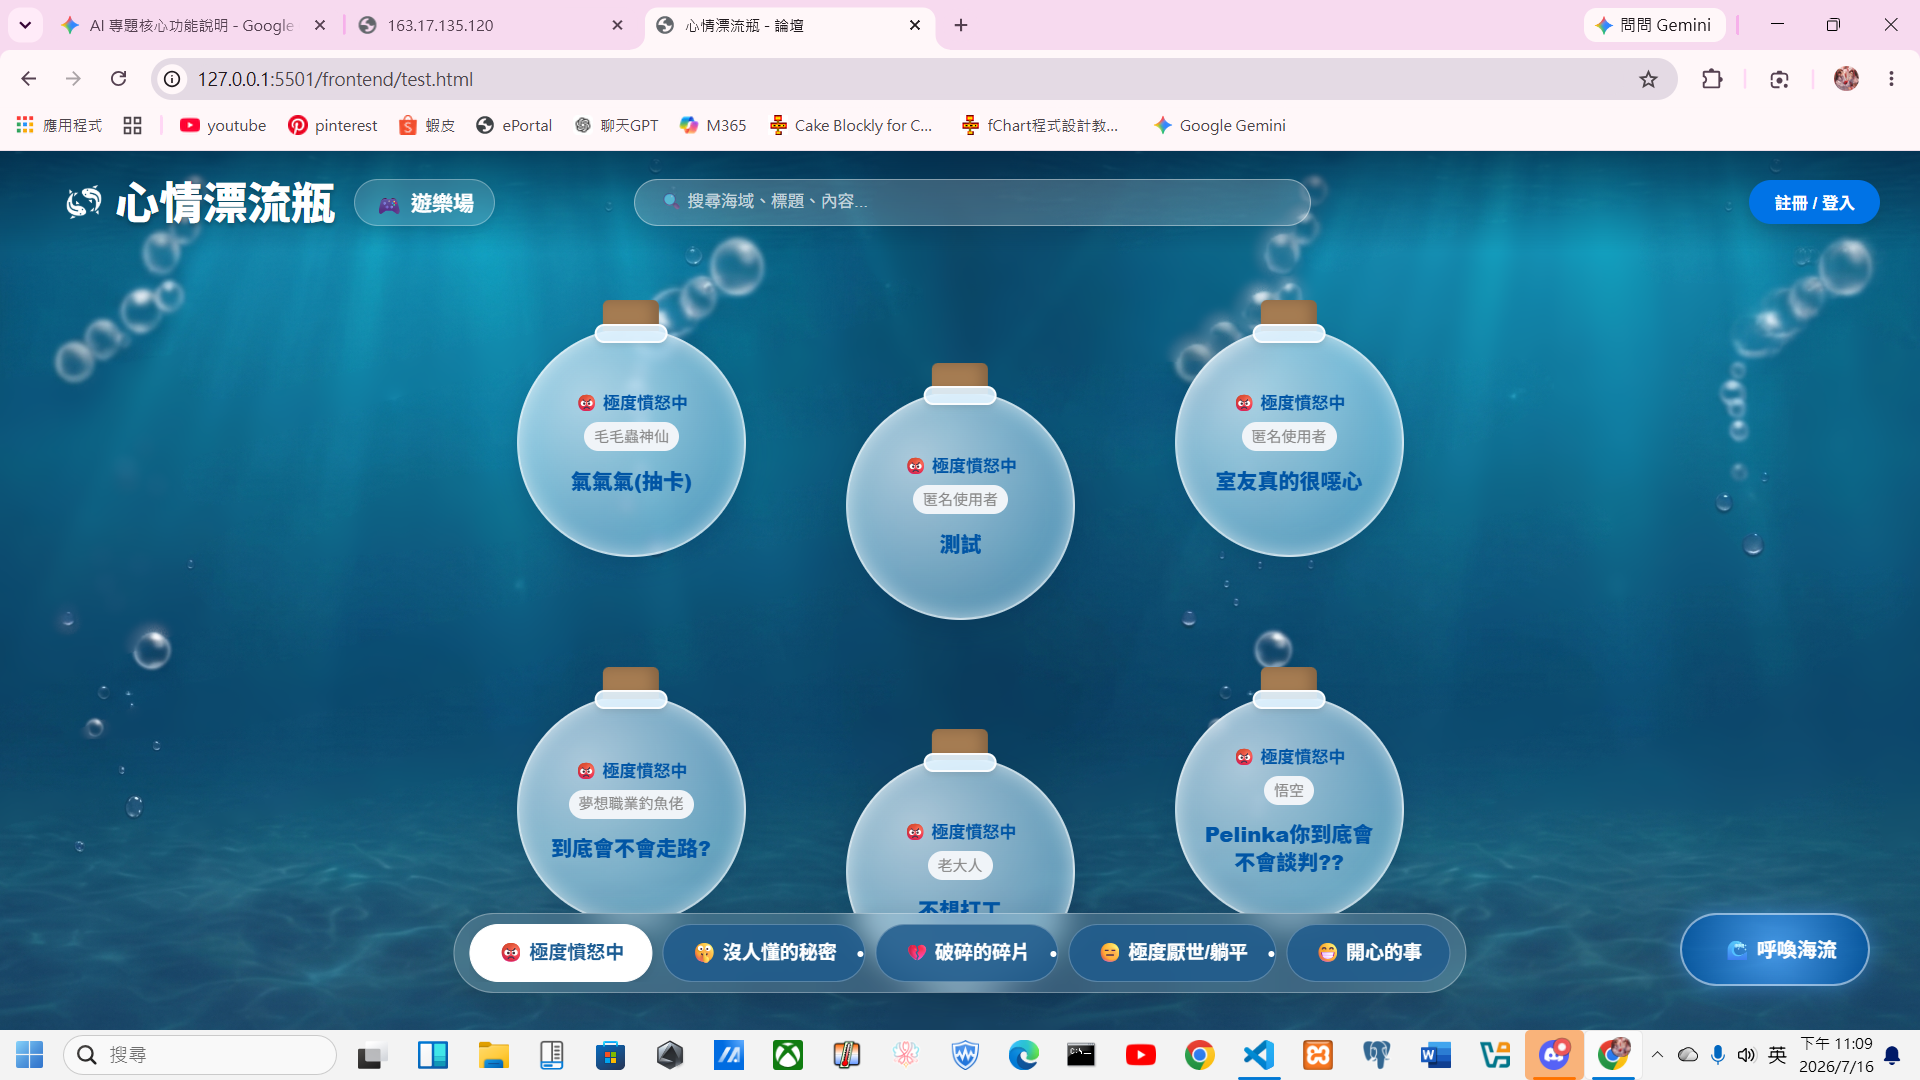
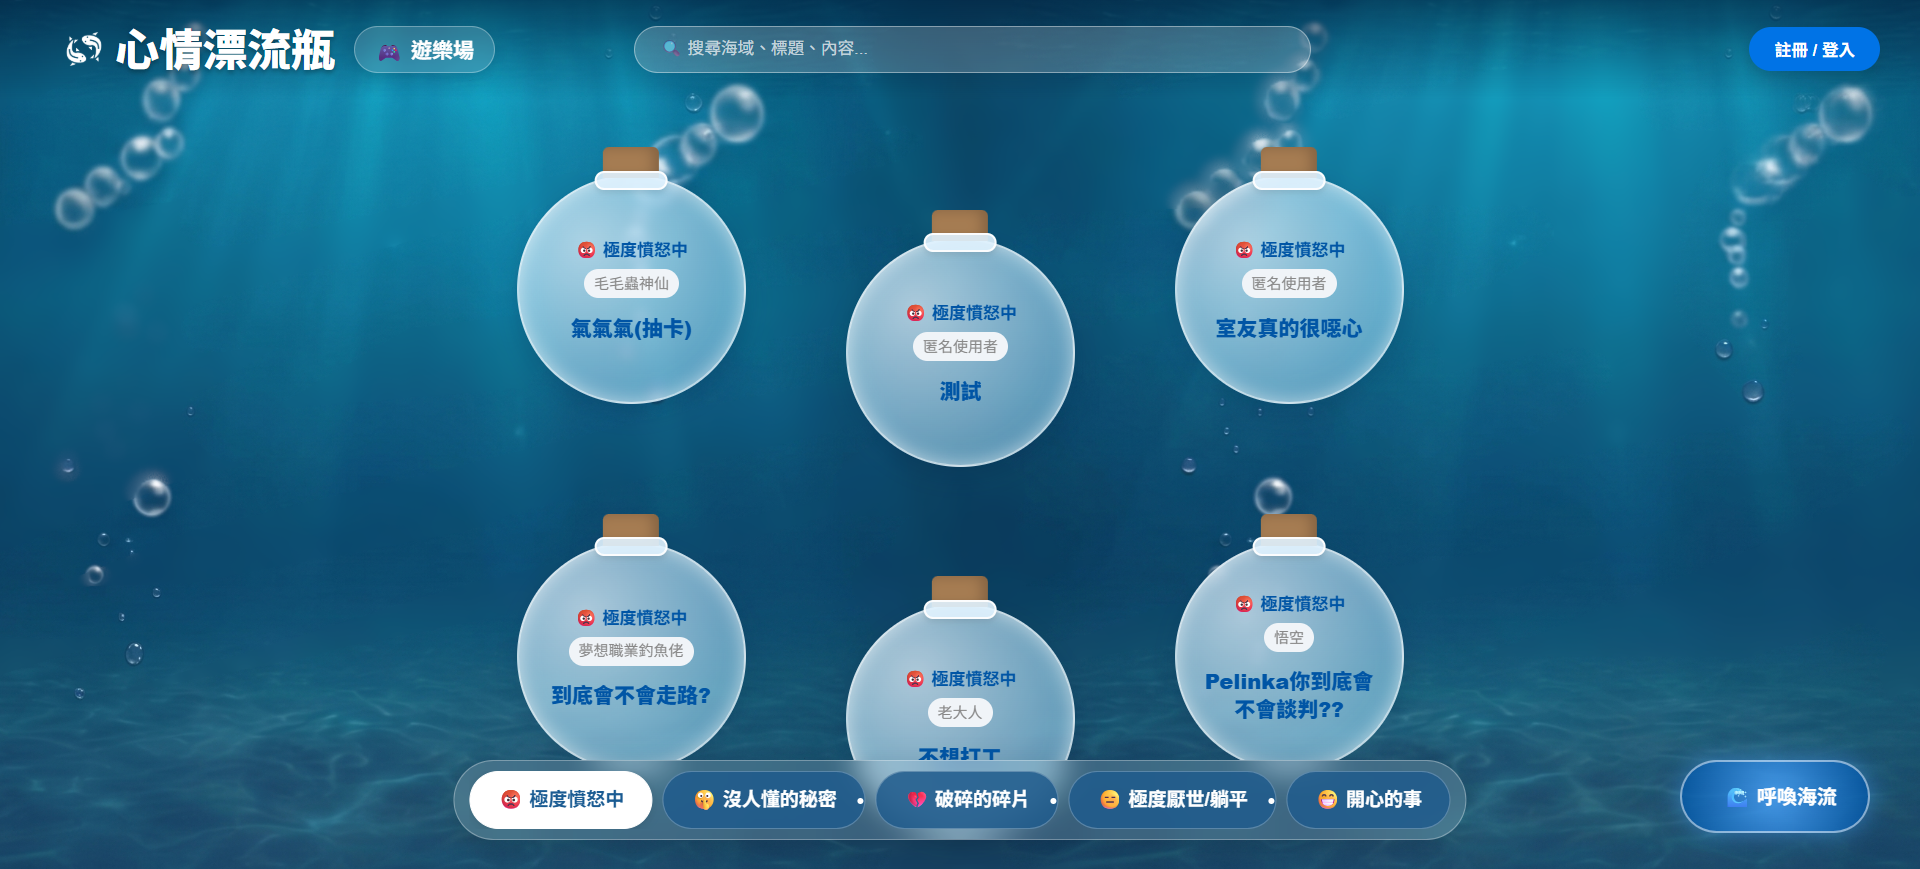
漂流指南-0831

diff --git a/frontend/tutorial.html b/frontend/tutorial.html
@@ -48,8 +48,9 @@
   .tutorial-window {
     position: relative;
     z-index: 10; 
-    width: 1200px; 
-    height: 700px; 
+    /* 微調寬高，給長條形圖片更多上下延伸空間 */
+    width: 1150px; 
+    height: 720px; 
     background-color: rgba(15, 32, 55, 0.85); 
     backdrop-filter: blur(12px); 
     border: 1px solid rgba(255, 255, 255, 0.1);
@@ -113,17 +114,17 @@
   }
 
   .sub-sidebar {
-    width: 240px;
-    padding: 80px 15px 20px 25px;
+    width: 230px;
+    padding: 80px 15px 20px 20px;
     overflow-y: auto;
   }
   .sub-tab {
-    padding: 15px 20px;
+    padding: 14px 18px;
     margin-bottom: 12px;
     border-radius: 30px; 
     background-color: rgba(255, 255, 255, 0.05);
     color: #99aab5;
-    font-size: 16px;
+    font-size: 15px;
     font-weight: bold;
     cursor: pointer;
     transition: 0.2s;
@@ -138,7 +139,7 @@
 
   .content-area {
     flex: 1;
-    padding: 60px 40px 40px 30px;
+    padding: 50px 30px 30px 20px;
     display: flex;
     flex-direction: column;
     position: relative;
@@ -155,20 +156,44 @@
   .image-container {
     position: relative;
     flex: 1; 
-    margin: 0 20px; 
-    height: 450px; 
-    background-color: rgba(0, 0, 0, 0.5); 
-    border-radius: 15px;
+    margin: 0 15px; 
+    /* 拉高圖片展示區，讓長圖可以變更大 */
+    height: 480px; 
+    background-color: transparent; 
     display: flex;
     justify-content: center;
     align-items: center;
-    box-shadow: inset 0 0 20px rgba(0,0,0,0.8);
-    overflow: hidden; 
+    cursor: zoom-in; 
   }
+  
   .image-container img {
-    max-width: 100%;
-    max-height: 100%;
-    object-fit: contain;
+    width: 100%;
+    height: 100%;
+    object-fit: contain; 
+    filter: drop-shadow(0 8px 25px rgba(0,0,0,0.6)); 
+    transition: 0.2s;
+  }
+  .image-container:hover img {
+    transform: scale(1.02); 
+  }
+
+  .zoom-hint {
+    position: absolute;
+    right: 15px; bottom: 15px;
+    background: rgba(0,0,0,0.7);
+    color: #fff;
+    padding: 6px 14px;
+    border-radius: 20px;
+    font-size: 14px;
+    pointer-events: none; 
+    backdrop-filter: blur(4px);
+    opacity: 0.5;
+    transition: 0.3s;
+    letter-spacing: 1px;
+    z-index: 20;
+  }
+  .image-container:hover .zoom-hint {
+    opacity: 1;
   }
 
   .arrow {
@@ -189,36 +214,83 @@
 
   .dots-wrapper {
     position: absolute;
-    bottom: 15px;
+    bottom: -25px; 
     left: 50%;
     transform: translateX(-50%);
     display: flex;
     gap: 10px;
+    z-index: 5; 
   }
   .dot {
     width: 10px; height: 10px;
     border-radius: 50%;
-    background-color: rgba(255,255,255,0.3);
+    background-color: rgba(255,255,255,0.4);
+    box-shadow: 0 0 5px rgba(0,0,0,0.6); 
     transition: 0.3s;
   }
-  .dot.active { background-color: #5ab9ff; box-shadow: 0 0 8px #5ab9ff; }
+  .dot.active { background-color: #5ab9ff; box-shadow: 0 0 8px #5ab9ff, 0 0 5px rgba(0,0,0,0.6); }
 
-  .text-container { padding: 0 15px; }
+  .text-container { padding: 0 15px; margin-top: 15px; }
   .text-title {
-    font-size: 26px; 
+    font-size: 24px; 
     font-weight: bold;
     color: white;
-    margin: 0 0 15px 0;
+    margin: 0 0 10px 0;
   }
   .text-desc {
-    font-size: 17px; 
+    font-size: 16px; 
     color: #b0c4de; 
     line-height: 1.6;
     margin: 0;
   }
+
+  /* === 全螢幕放大圖片模態框 === */
+  .lightbox {
+    display: none; 
+    position: fixed;
+    top: 0; left: 0; width: 100%; height: 100%;
+    background-color: rgba(0, 0, 0, 0.9);
+    z-index: 9999; 
+    justify-content: center;
+    align-items: center;
+    cursor: zoom-out;
+    opacity: 0;
+    transition: opacity 0.3s;
+  }
+  .lightbox.show {
+    display: flex;
+    opacity: 1;
+  }
+  
+  .lightbox img {
+    width: 100%;
+    height: 100%;
+    max-width: 90vw;
+    max-height: 90vh;
+    object-fit: contain;
+    filter: drop-shadow(0 0 25px rgba(255,255,255,0.15));
+  }
+  
+  .lightbox-close {
+    position: absolute;
+    top: 20px; right: 30px;
+    color: white;
+    font-size: 50px;
+    font-weight: bold;
+    cursor: pointer;
+    z-index: 10000;
+  }
+  .lightbox-close:hover { color: #5ab9ff; }
+
 </style>
 </head>
 <body>
+
+<!-- 全螢幕放大圖片區塊 -->
+<div class="lightbox" id="lightbox">
+  <span class="lightbox-close">&times;</span>
+  <img id="lightboxImg" src="" alt="放大圖片">
+</div>
 
 <div class="bubbles-container">
   <div class="bubble"></div>
@@ -246,8 +318,9 @@
     <div class="carousel-container">
       <button class="arrow arrow-left" id="prevBtn">◀</button>
       
-      <div class="image-container">
+      <div class="image-container" id="imgContainer">
         <img id="displayImage" src="" alt="指南圖片">
+        <div class="zoom-hint">🔍 點擊圖片放大</div>
         <div class="dots-wrapper" id="dotsWrapper"></div>
       </div>
       
@@ -264,6 +337,20 @@
 <script>
   document.getElementById('closeGuideBtn').onclick = () => {
     window.location.href = 'test.html'; 
+  };
+
+  // 全螢幕放大邏輯
+  const lightbox = document.getElementById('lightbox');
+  const lightboxImg = document.getElementById('lightboxImg');
+  const imgContainer = document.getElementById('imgContainer');
+  
+  imgContainer.onclick = () => {
+    lightboxImg.src = document.getElementById('displayImage').src;
+    lightbox.classList.add('show');
+  };
+  
+  lightbox.onclick = () => {
+    lightbox.classList.remove('show');
   };
 
   const tutorialData = {
@@ -283,7 +370,7 @@
           { img: "./images/notification.png", subtitle: "通知中心", desc: "通知小鈴鐺在右上方，點擊可查看最新通知喔！" }
         ]
       },
-    {
+      {
         title: "打造個人空間",
         slides: [
           { img: "./images/user_menu.png", subtitle: "檢視個人空間", desc: "點選右上角的暱稱，即可展開選單檢視個人空間，裡面包含個人資料、我的追蹤、網站設定等功能。" },
@@ -298,7 +385,7 @@
           { img: "./images/write_bottle.png", subtitle: "拋出你的心事", desc: "點擊「發文」，自由選擇貼文要拋向哪個海域，並隨時決定要以「實名」或「匿名」發布，讓海浪替你傳遞心聲。" }
         ]
       },
-     {
+      {
         title: "海流導航與社群",
         slides: [
           { img: "./images/hot_posts.png", subtitle: "熱門貼文", desc: "點擊可以在這裡看到最近大家都在討論的內容，是已被收藏人數排名的。" },
@@ -336,7 +423,6 @@
           { img: "./images/seahare_tasks.png", subtitle: "任務與裝扮", desc: "每天完成餵食等任務賺取積分，可至商城兌換背景特效。還能建立連線房間跟好友展示海兔！" }
         ]
       },
-      // === 重新拆解：今日塔羅瓶 (4張圖) ===
       {
         title: "今日塔羅瓶",
         slides: [
@@ -346,7 +432,6 @@
           { img: "./images/tarot_save.png", subtitle: "再問一次與收藏", desc: "解析結束後可點擊「再問一次」重新占卜，或點選「收藏此存檔」，隨時至右上角收藏庫回顧過往紀錄與測算時間。" }
         ]
       },
-      // === 重新拆解：突然想拼圖 (4張圖) ===
       {
         title: "突然想拼圖",
         slides: [
@@ -435,7 +520,7 @@
       prevBtn.style.cursor = currentSlideIndex === 0 ? 'default' : 'pointer';
       nextBtn.style.cursor = currentSlideIndex === slideData.length - 1 ? 'default' : 'pointer';
       prevBtn.style.opacity = '0.6';
-      nextBtn.style.opacity = '0.6';
+      prevBtn.style.opacity = '0.6';
     }
   }
 
